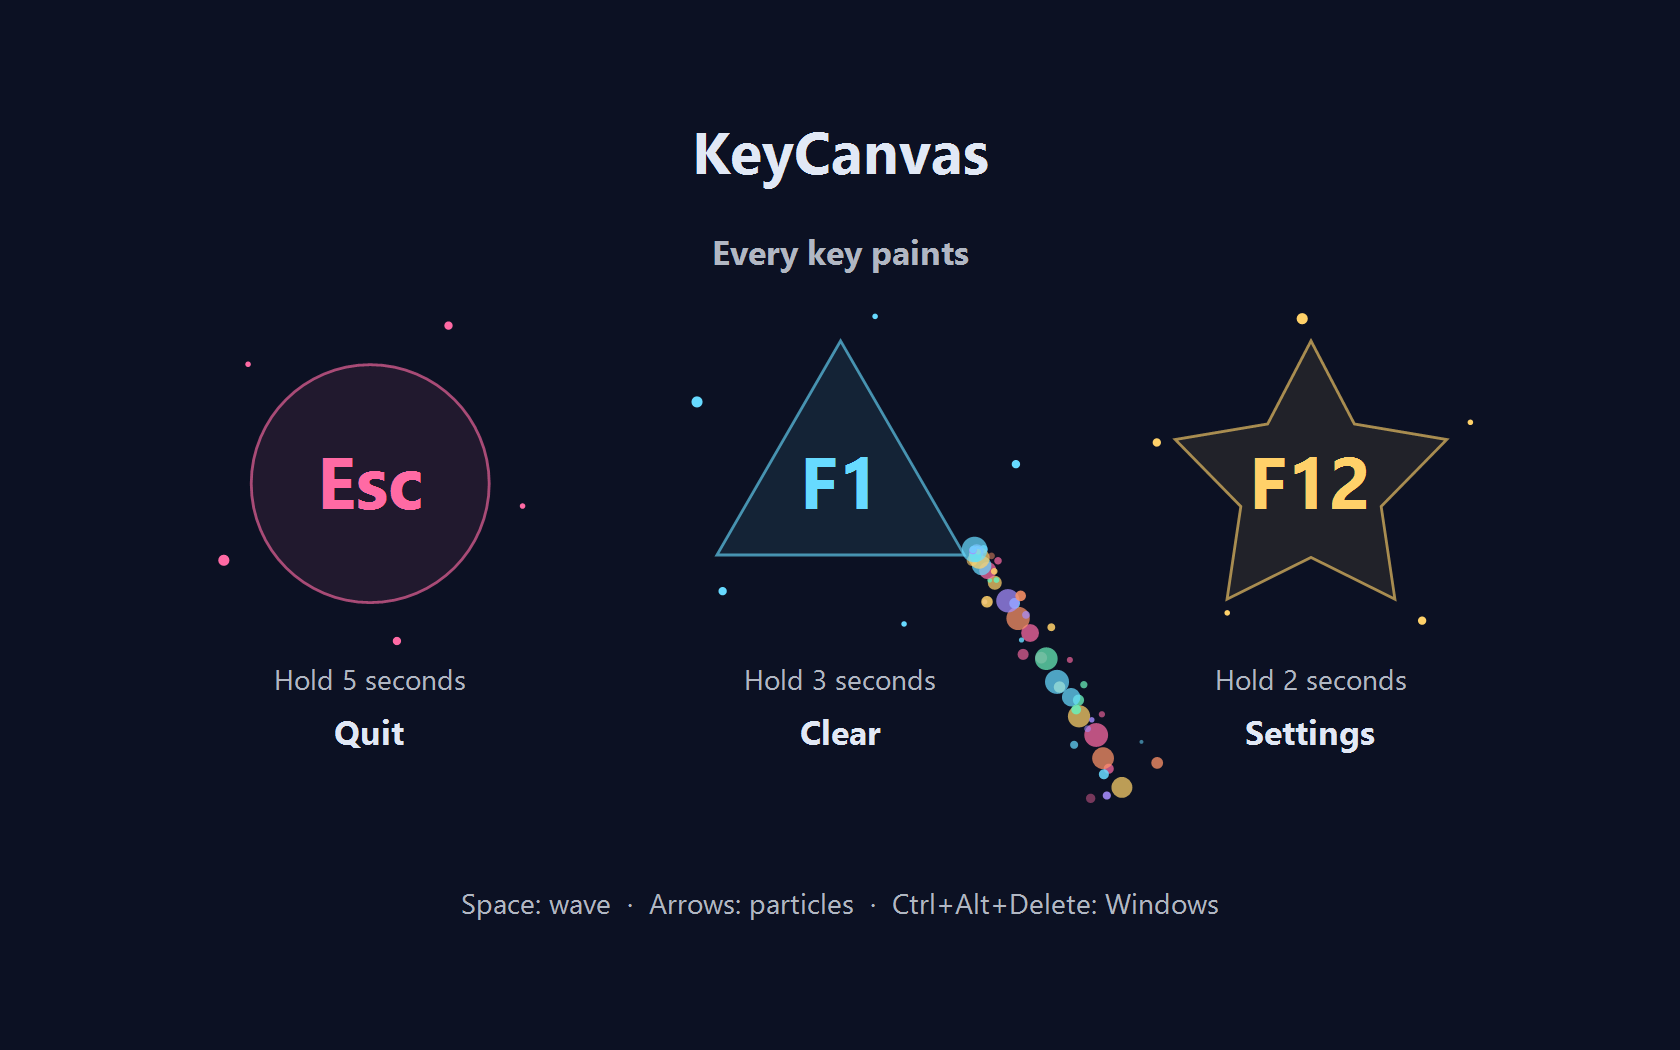
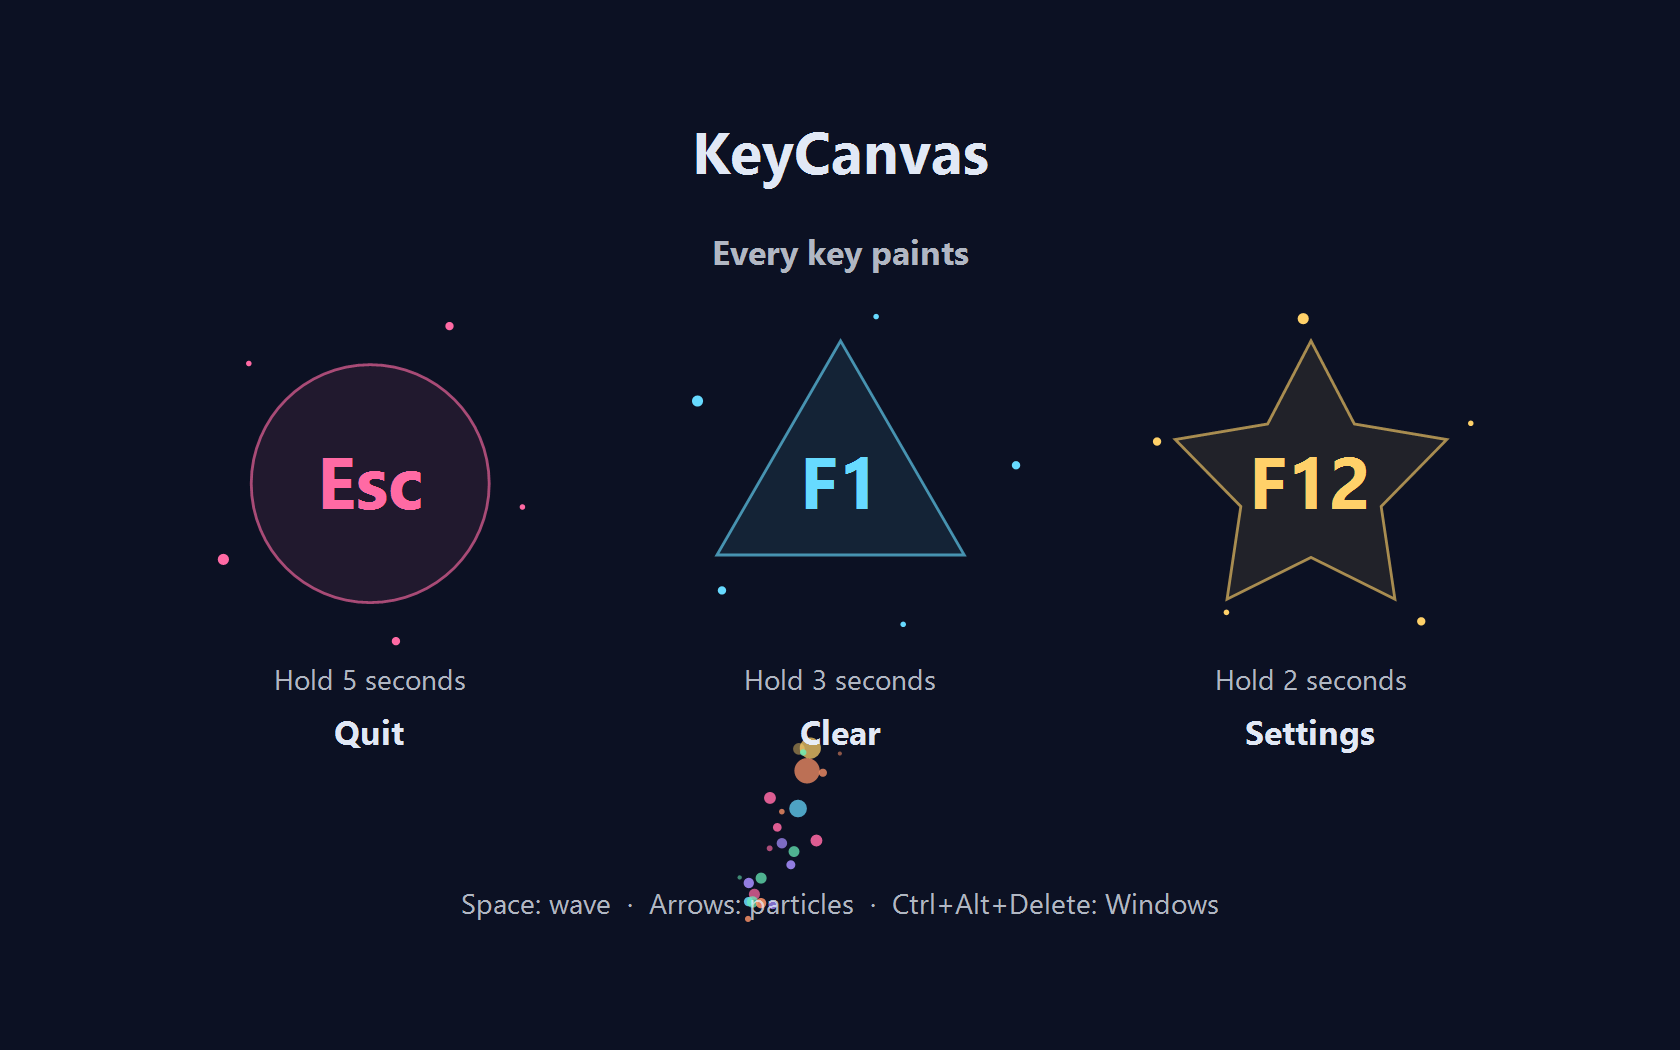
Fixed settings repaint artifacts and verified live screenshots

Changed region(s): [[0.5571, 0.5181, 0.681, 0.7619], [0.4643, 0.701, 0.4952, 0.8229], [0.4333, 0.8229, 0.4643, 0.8838]]

diff --git a/SettingsTheme.cs b/SettingsTheme.cs
@@ -59,10 +59,12 @@ internal sealed class SettingsButton : Button
         Padding = new Padding(16, 9, 16, 9);
         Margin = new Padding(5);
         Cursor = Cursors.Hand;
-        SetStyle(ControlStyles.UserPaint | ControlStyles.OptimizedDoubleBuffer, true);
+        SetStyle(ControlStyles.UserPaint | ControlStyles.AllPaintingInWmPaint | ControlStyles.OptimizedDoubleBuffer, true);
     }
     protected override void OnPaint(PaintEventArgs e)
     {
+        // ButtonBase can skip background painting; initialize the entire reused buffer.
+        e.Graphics.Clear(Parent?.BackColor ?? SystemColors.Control);
         e.Graphics.SmoothingMode = SmoothingMode.AntiAlias;
         Color fill = Primary ? SettingsTheme.Purple : BackColor;
         using var path = SettingsTheme.Round(new RectangleF(0, 0, Width - 1, Height - 1), 9 * DeviceDpi / 96f);
@@ -84,7 +86,7 @@ internal sealed class SettingsToggle : CheckBox
         AutoSize = true;
         Margin = new Padding(0, 4, 0, 4);
         Cursor = Cursors.Hand;
-        SetStyle(ControlStyles.UserPaint | ControlStyles.OptimizedDoubleBuffer, true);
+        SetStyle(ControlStyles.UserPaint | ControlStyles.AllPaintingInWmPaint | ControlStyles.OptimizedDoubleBuffer, true);
     }
     public override Size GetPreferredSize(Size proposedSize)
     {
@@ -93,6 +95,7 @@ internal sealed class SettingsToggle : CheckBox
     }
     protected override void OnPaint(PaintEventArgs e)
     {
+        e.Graphics.Clear(BackColor);
         float scale = DeviceDpi / 96f;
         float side = 20 * scale;
         var box = new RectangleF(0, (Height - side) / 2, side, side);

diff --git a/tests/Program.cs b/tests/Program.cs
@@ -810,8 +810,30 @@ internal static class Program
     }
     private static void SaveScreenshot(Form form, string path)
     {
+        form.Activate();
+        form.Refresh();
+        Check(NativeMethods.GetForegroundWindow() == form.Handle, "Screenshots must capture the foreground application window.");
         using var bitmap = new Bitmap(form.Width, form.Height);
-        form.DrawToBitmap(bitmap, new Rectangle(Point.Empty, bitmap.Size));
+        using (var graphics = Graphics.FromImage(bitmap))
+            graphics.CopyFromScreen(form.Location, Point.Empty, bitmap.Size);
+        if (form is SettingsForm)
+        {
+            var controls = new Stack<Control>();
+            controls.Push(form);
+            while (controls.TryPop(out var control))
+            {
+                foreach (Control child in control.Controls) controls.Push(child);
+                if (control is not SettingsToggle toggle || !toggle.Visible) continue;
+                var origin = toggle.PointToScreen(Point.Empty) - (Size)form.Location;
+                for (int x = 40 * toggle.DeviceDpi / 96; x < toggle.Width - 2; x += 16)
+                {
+                    var point = new Point(origin.X + x, origin.Y);
+                    if (new Rectangle(Point.Empty, bitmap.Size).Contains(point))
+                        Check(bitmap.GetPixel(point.X, point.Y).ToArgb() == toggle.BackColor.ToArgb(),
+                            "Live checkbox backgrounds must not contain pixels left by other controls.");
+                }
+            }
+        }
         bitmap.Save(path, ImageFormat.Png);
     }
 

diff --git a/CHANGELOG.md b/CHANGELOG.md
@@ -14,6 +14,7 @@
 - Startup hints display the configured shortcuts and hold times directly on the canvas.
 
 ### Fixed
+- Settings checkboxes and rounded buttons clear their drawing buffers, preventing overlapping text and dark fragments during live repainting.
 - Sound previews share the canvas MIDI output instead of attempting to open a second device.
 - Cancelling settings restores the canvas instrument after previewing another sound.
 - The original soft piano, bells and xylophone remain available without MIDI.
